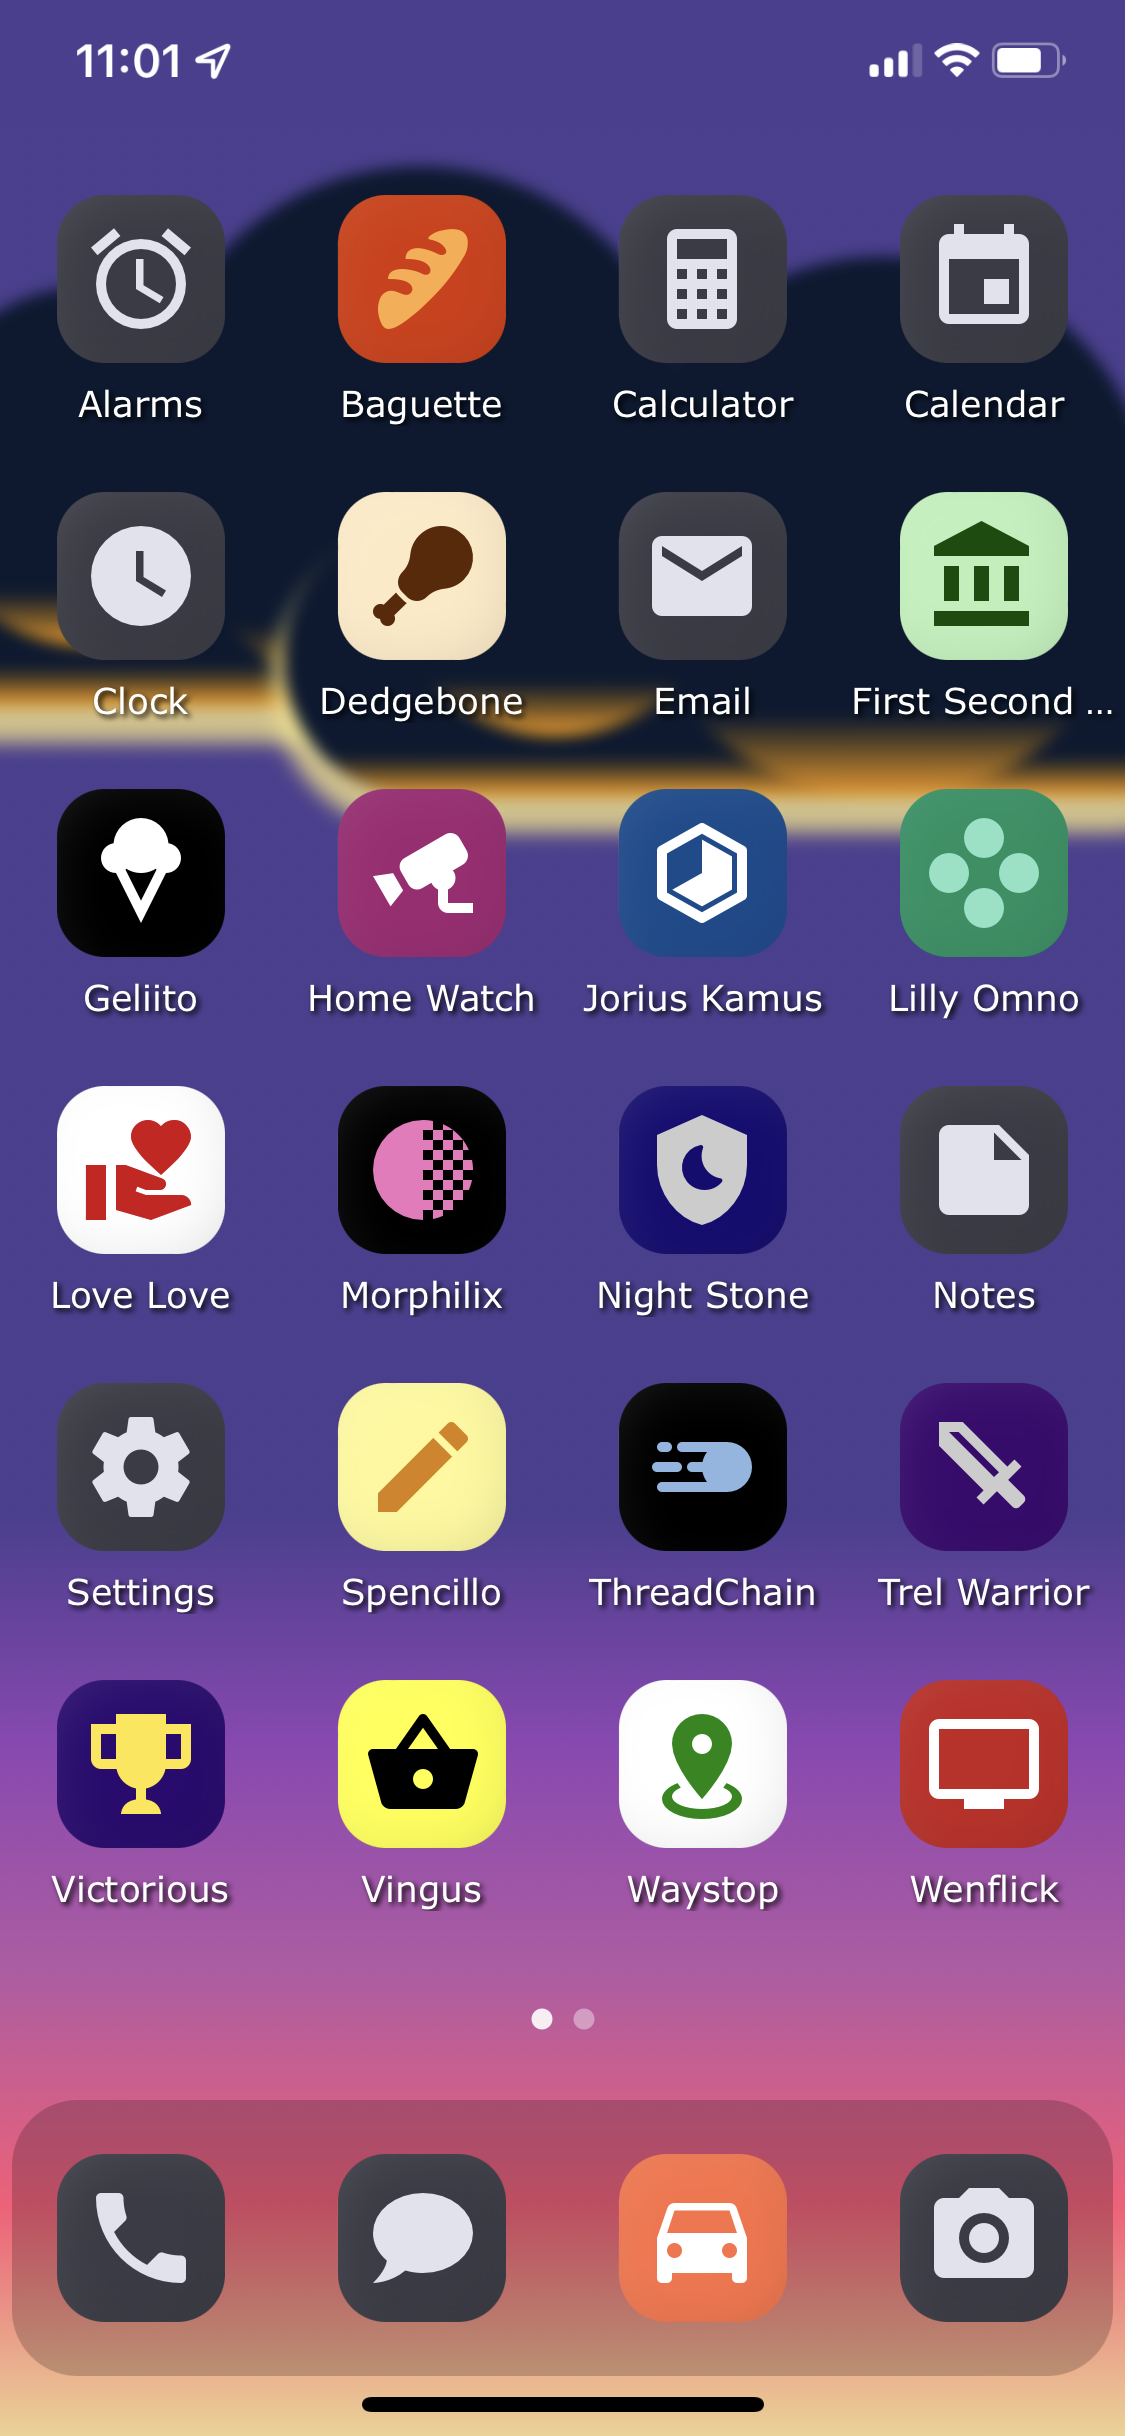
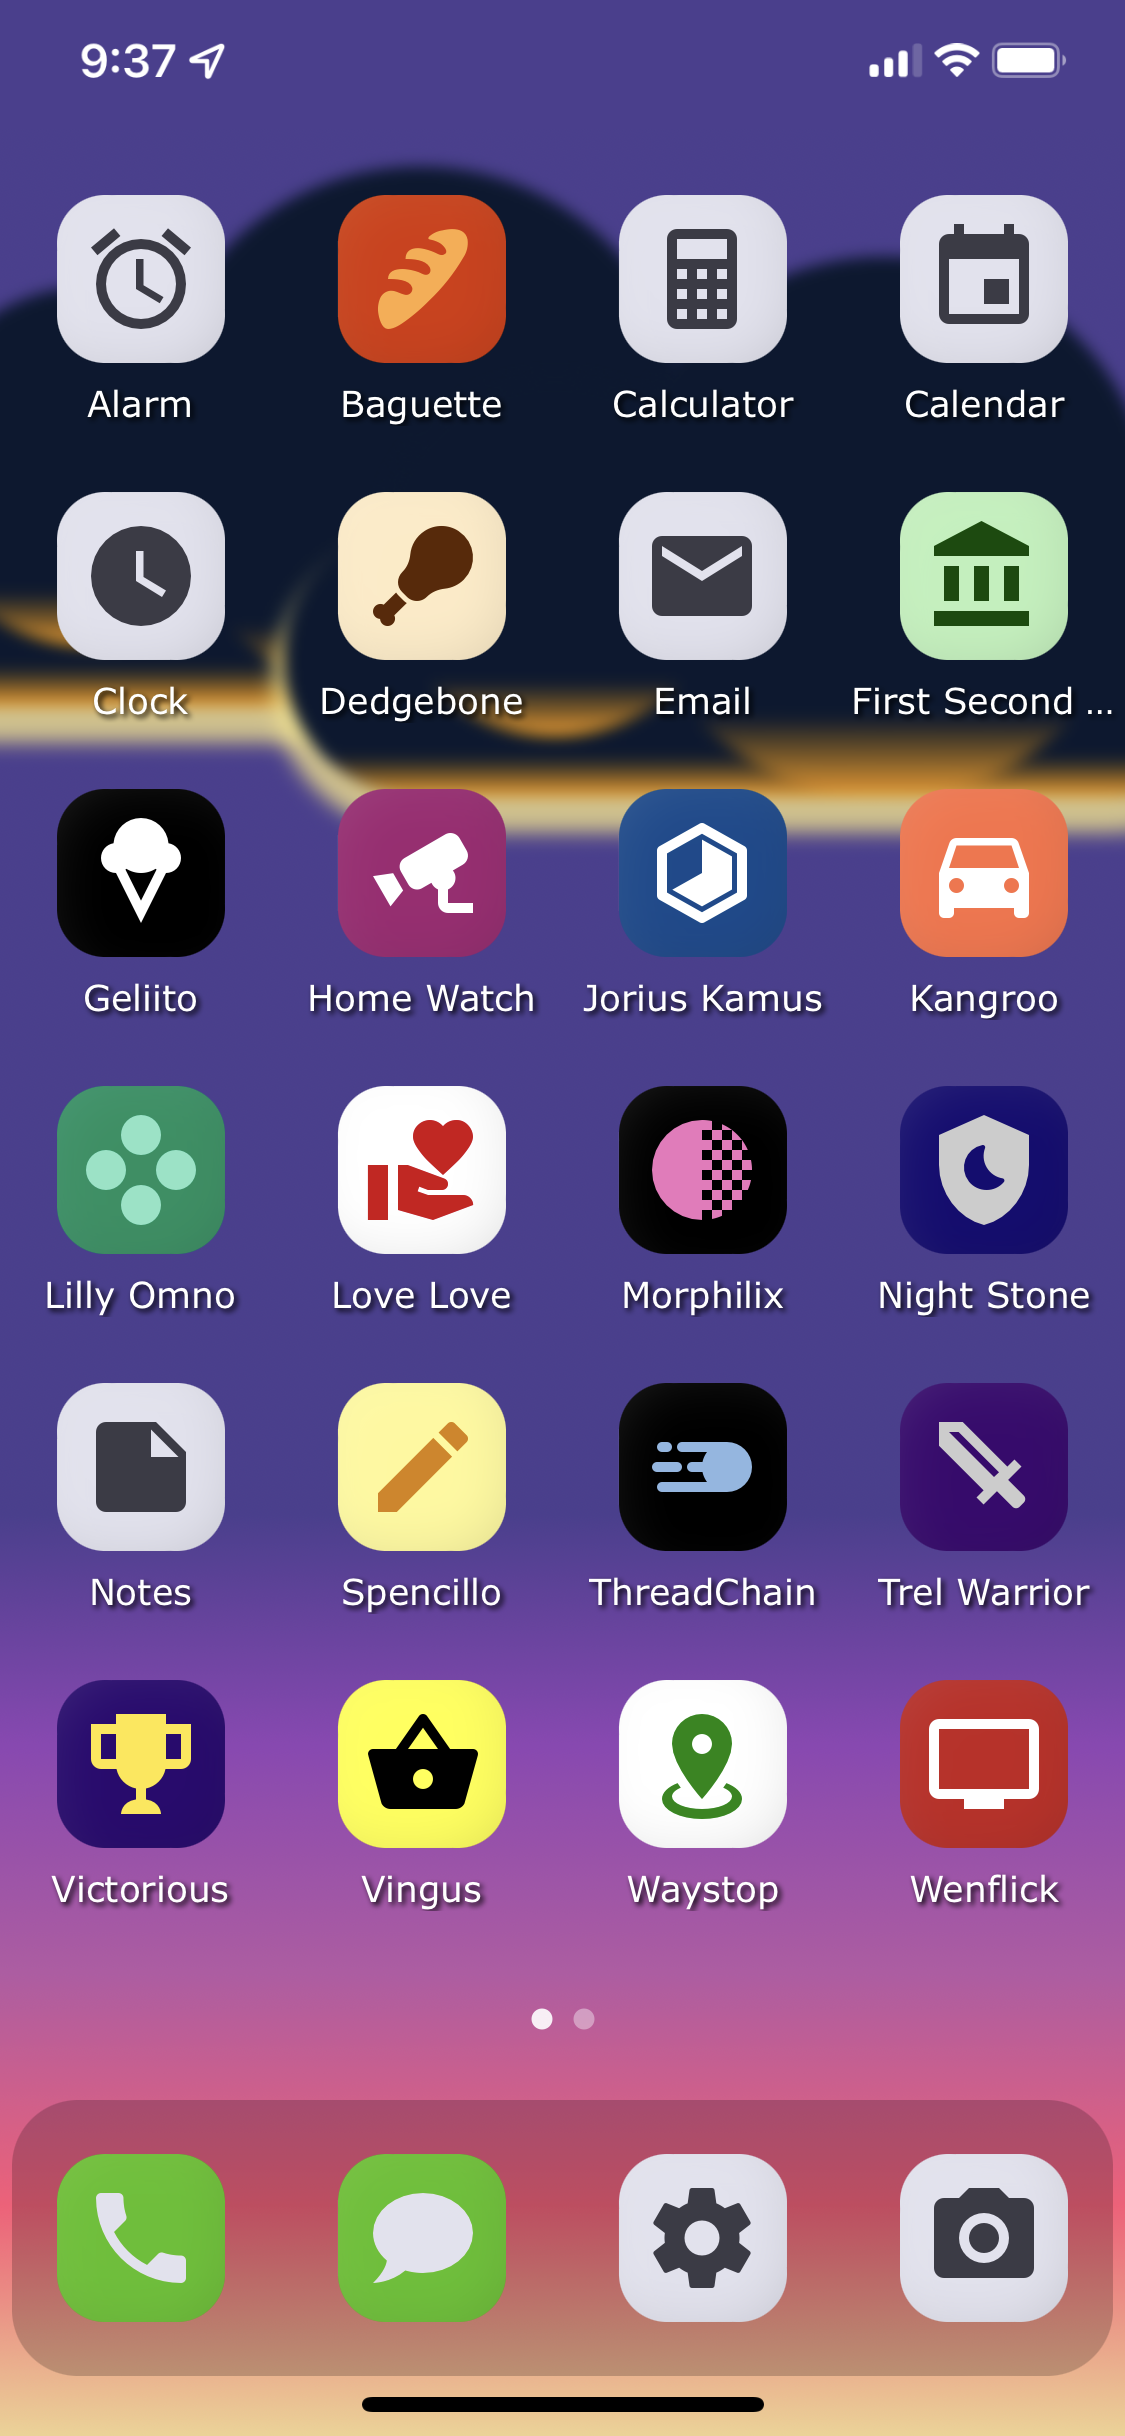
Add wallpapers and manifest.

diff --git a/src/app.html b/src/app.html
@@ -3,11 +3,11 @@
   <head>
     <meta charset="utf-8" />
     <meta name="description" content="" />
-    <link rel="icon" href="/favicon.png" />
     <meta name="viewport" content="width=device-width, initial-scale=1" />
     <meta name="apple-mobile-web-app-capable" content="yes" />
     <meta name="apple-mobile-web-app-status-bar-style" content="black-translucent" />
     <meta name="theme-color" content="#4C3F91" />
+    <link rel="manifest" href="manifest.json" />
 
     <style type="text/css">
       html,

diff --git a/README.md b/README.md
@@ -8,14 +8,12 @@ A "home screen" full of fake apps to use for stock photos.
 
 # Usage
 
-As much as legally possible, I'm placing this in the public domain. You are allowed to do anything you want with this code, subject to the terms of the libraries its built with and any trademarks or copyrights thereof.
-
 1. On an iPhone in Safari, go here: https://hperrin.github.io/stock-app-home-screen/
 2. Click the Share button.
 3. Click "Add to Home Screen".
 4. Put in a name and add the shortcut to your home screen.
 5. Launch it from the new shortcut on your home screen to get the fullscreen view.
-6. You're ready to take stock photos with your phone.
+6. You're ready to take stock photos of your phone without any trademarked app names or icons.
 
 - Click an app in the grid to move it right.
 - Click the Phone app to remove an app from the end of the grid.
@@ -23,10 +21,18 @@ As much as legally possible, I'm placing this in the public domain. You are allo
 - Click the Settings app to switch to the empty page (hide the apps in the grid).
 - Click the Camera app to turn off the app move feature (so you can click apps without them moving).
 
+As much as legally possible, I'm placing this in the public domain. You are allowed to do anything you want with this code, subject to the terms of the libraries its built with and any trademarks or copyrights thereof.
+
+# Just Want the Wallpaper?
+
+It's build with CSS, but there are <a href="static/wallpaper">lots of renderings</a> I've done and made available.
+
 # Running the App
+
+If you want to make any changes, like adding your own app into the grid, you can clone the repo and run the app locally.
 
 ```
 npm run dev -- --host
 ```
 
-Then visit the app on your iPhone, click share, add it to your home screen, then open it from there. You can now take stock photos of your phone without any trademarked app names or icons.
+Then visit the app on your iPhone (on the same network), and follow the rest of the instructions from above.
